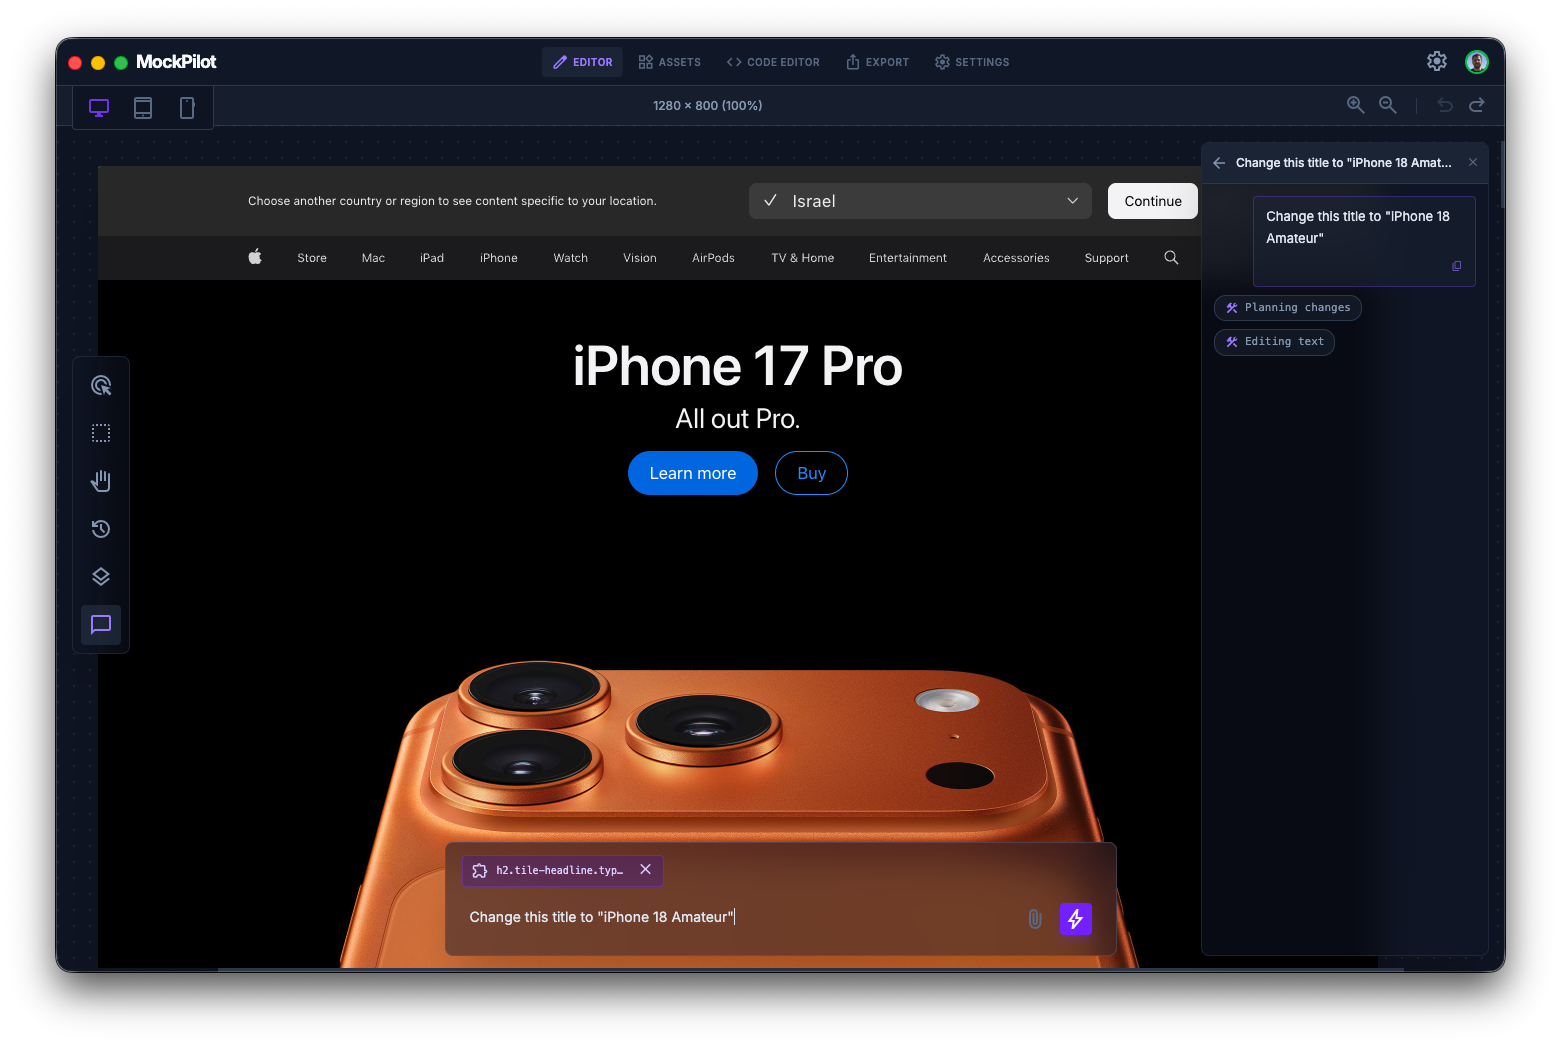
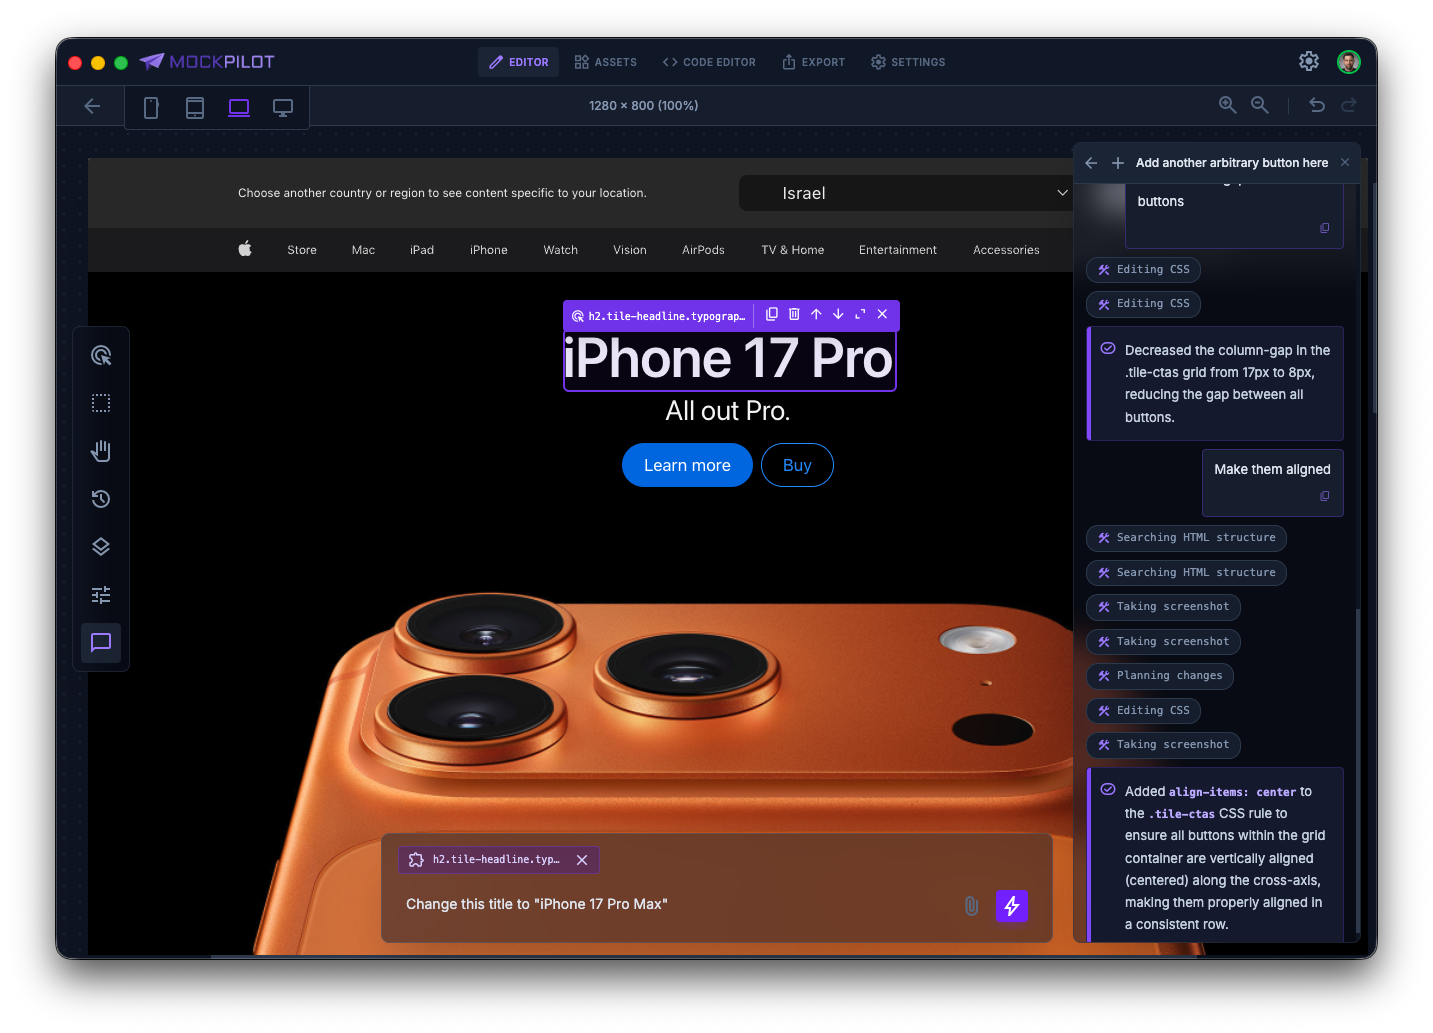
docs: update README install path and screenshot

Changed region(s): [[0.0307, 0.031, 0.9826, 0.9293], [0.3378, 0.031, 0.6755, 0.1239]]

diff --git a/README.md b/README.md
@@ -34,7 +34,7 @@ MockPilot lets you capture live web pages, strip away the noise, and edit the re
 
    Click **Cancel** (do *not* move it to Trash), then run:
    ```bash
-   xattr -cr /Applications/MockPilot.app
+   xattr -cr ~/Downloads/MockPilot.app
    ```
 4. Open the app normally
 
